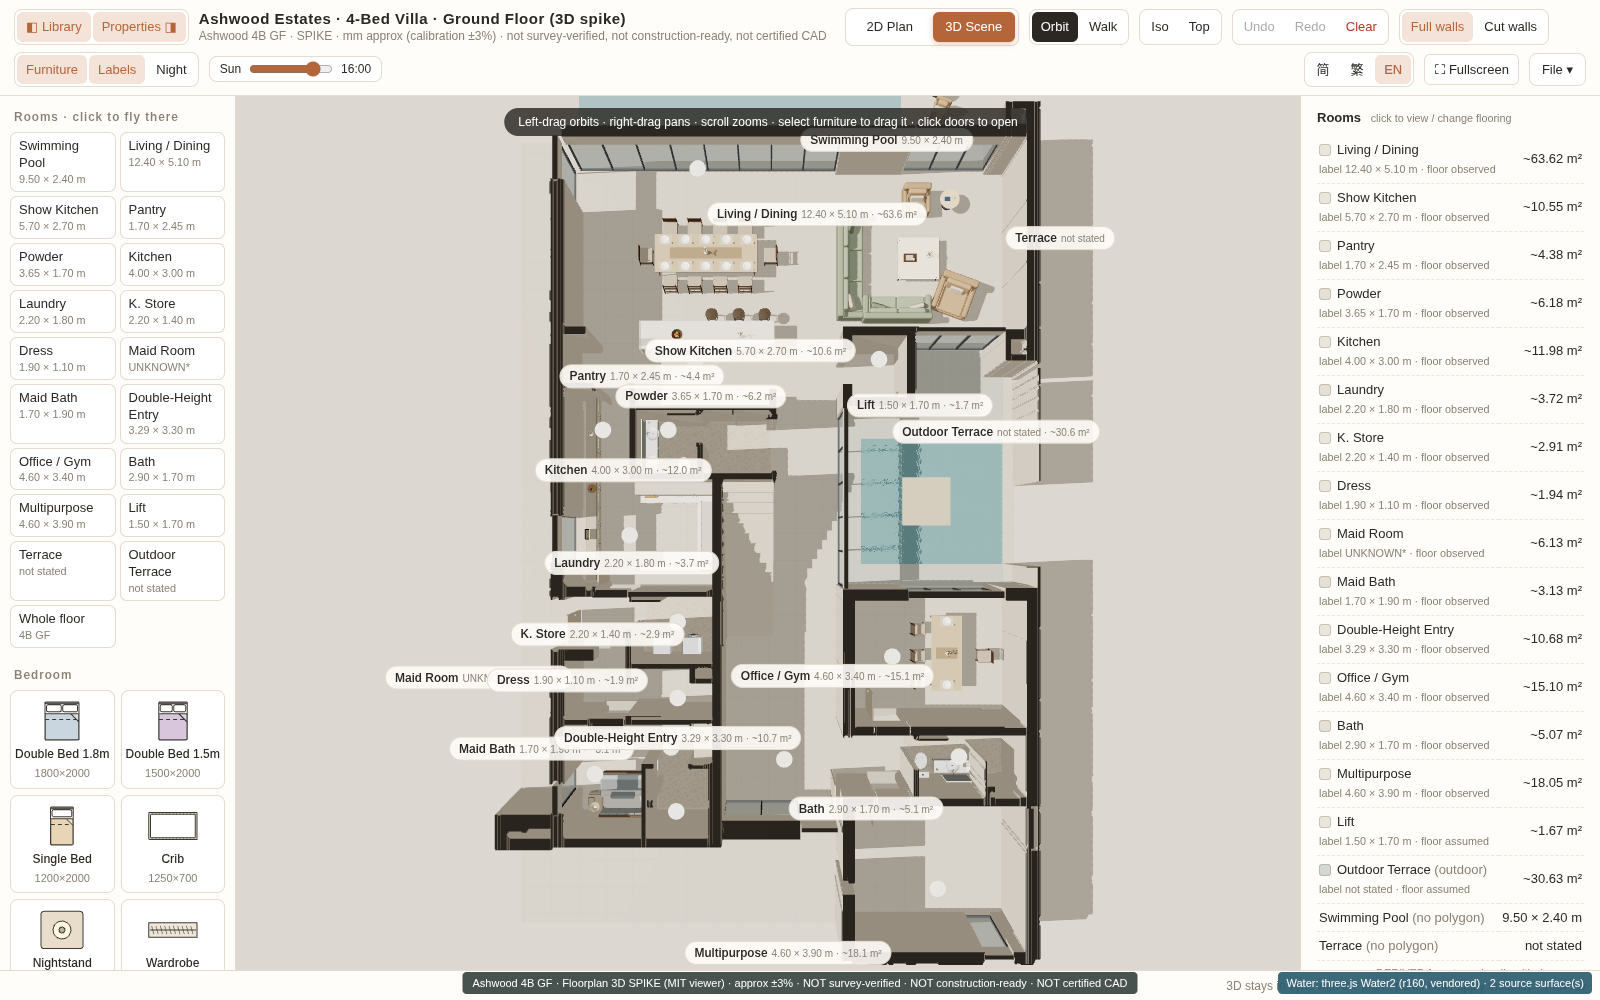
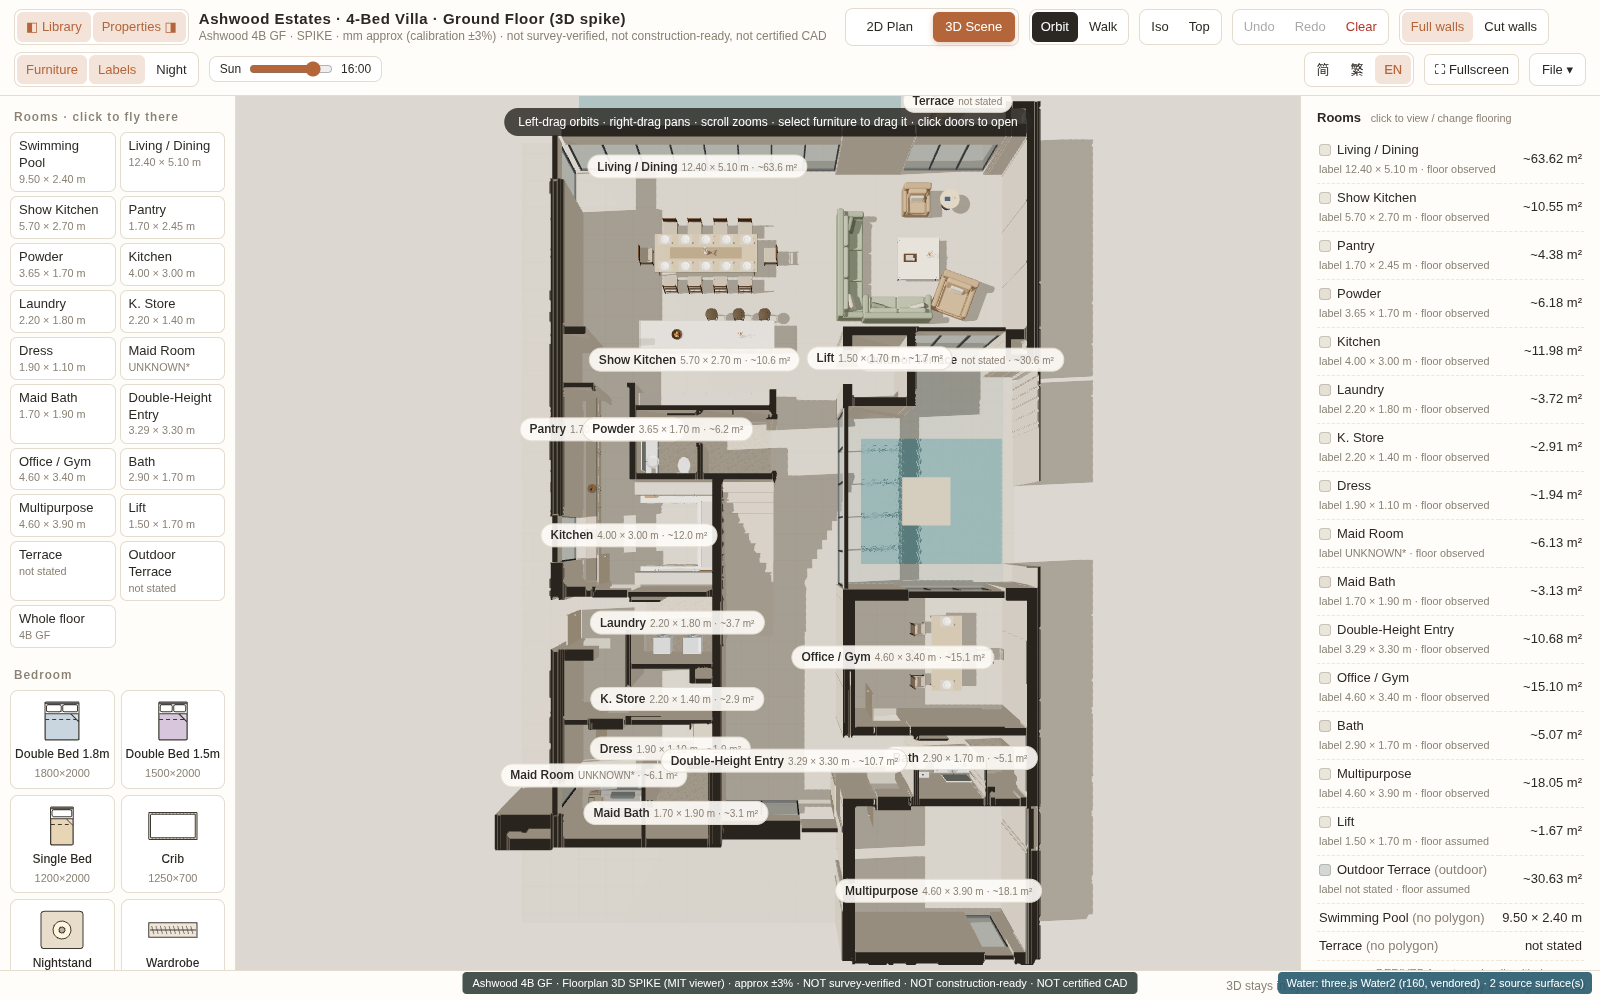
Sync in-progress Ashwood work (FP-4B-GF Floorplan3D rebuild)

diff --git a/active/floorplan3d-spike/FP-4B-GF/index.html b/active/floorplan3d-spike/FP-4B-GF/index.html
@@ -2629,6 +2629,7 @@ function bindUI(){
 
 /* ======================= 主循环 ======================= */
 const clock = new THREE.Clock();
+function lampFace(){ const below = camera.position.y < H - .05; lampG.children.forEach(o => { if (!o.isPointLight) o.visible = below && opt.cut >= H; }); }
 function startLoop(){ if (!raf){ clock.getDelta(); raf = requestAnimationFrame(loop); } }
 function loop(){
   raf = requestAnimationFrame(loop);
@@ -2638,7 +2639,7 @@ function loop(){
   else if (opt.mode === 'orbit') orbit.update();
   else stepWalk(dt);
   doors.forEach(d => { const tg = d.open ? d.a1 : d.a0; d.cur += (tg - d.cur) * Math.min(1, dt*6); d.pivot.rotation.y = d.cur; });
-  updateSel();
+  updateSel(); lampFace();
   renderer.render(scene, camera);
   labelRenderer.render(scene, camera);
 }
@@ -2667,7 +2668,7 @@ window.__FP3D_QA__ = {
   settle(){   // stop the render loop and finish any enter/fly animation (headless capture only)
     cancelAnimationFrame(raf); raf = 0; if (anim){ anim.fn(1); const r = anim.res; anim = null; r(); } if (fly){ camTween(fly.A, fly.B, 1); fly = null; }
     grow = 1; furnGrow = 1; applyGrow(); doors.forEach(d => { d.cur = d.open ? d.a1 : d.a0; d.pivot.rotation.y = d.cur; }); return true; },
-  still(){ this.settle(); orbit.update(); renderer.render(scene, camera); return {png:renderer.domElement.toDataURL('image/png'), w:renderer.domElement.width, h:renderer.domElement.height}; },
+  still(){ this.settle(); orbit.update(); lampFace(); renderer.render(scene, camera); return {png:renderer.domElement.toDataURL('image/png'), w:renderer.domElement.width, h:renderer.domElement.height}; },
   furn(v){ furnG.visible = v; return v; },
   labels(v){ labelG.visible = v; labelG.children.forEach(o => { o.visible = v; o.element.style.display = v ? '' : 'none'; }); return v; },
 };

diff --git a/scripts/write_floorplan3d_spike_readme.py b/scripts/write_floorplan3d_spike_readme.py
@@ -5,7 +5,6 @@ from pathlib import Path
 R = Path(__file__).resolve().parents[1]; S = R / 'active/floorplan3d-spike/FP-4B-GF'
 pj = json.loads((S / 'data/fp-4b-gf.plan.json').read_text())
 vj = json.loads((S / 'verify/verification.json').read_text()) if (S / 'verify/verification.json').exists() else {}
-gaps = (S.parent / 'FP-4B-GF.v2_gaps.md')
 L = []; A = L.append
 A('# Ashwood Estates: 4-bed villa, ground floor. Floorplan 3D viewer spike (FP-4B-GF), **v2**\n')
 A('**Status: REVIEW-PENDING SPIKE. One floor only.** Not survey-verified, not construction-ready, not certified CAD.\n')
@@ -51,7 +50,17 @@ if vj:
       f"- Furniture built at runtime: {vj.get('furniture_runtime')}. Rooms at runtime: {len(vj.get('rooms_runtime', []))} (incl. display plate).\n"
       f"- 3D top render vs V4 walls (furniture hidden): recall within ±{g.get('tolerance_mm')} mm {g.get('recall_within_tol')}, precision {g.get('precision_within_tol')}, components ≥0.95 recall {g.get('components_recall_ge_0.95')}/{g.get('v4_wall_components')}. Water IoU {w.get('IoU')}.\n"
       f"- Water mode {vj.get('info_final_desktop', {}).get('water', {}).get('mode')}; flat fallback {vj.get('flat_fallback_info', {}).get('mode')}; fly-to moved {vj.get('flyto', {}).get('moved')}; joystick walk moved {round(vj.get('walk', {}).get('moved_m') or 0, 2)} m.\n")
-if gaps.exists(): A(gaps.read_text())
+A("""## Remaining quality gaps (honest)
+- **Generic furniture models.** These are the upstream procedural models (sofa, chair, bed and so on), not the brochure's actual pieces, and their colours are upstream defaults. Only position, rotation and approximate footprint come from the plan.
+- **Procedural finishes.** Floors use upstream procedural tile and terrazzo textures. Walls are the upstream flat off-white and are not the brochure's textured paint, Calacatta feature wall or Recon Veneer joinery. All finish evidence is project-wide, not per room.
+- **Real-time WebGL quality, not offline renders.** There is no global illumination, real-time-only soft shadows and a basic ceiling. Headless renders use SwiftShader (CPU), so edges are not anti-aliased the way a GPU browser would draw them. On a normal GPU browser the viewer looks somewhat cleaner than these PNGs.
+- **Room polygons are derived.** Show kitchen ~10.6 m² is smaller than its label (5.70 × 2.70) because the open-plan labels overlap. Lift ~1.7 m² is smaller than 1.50 × 1.70. Dress, maid bath, entry and lift have wall/opening fit below 0.9 (see table).
+- **Maid-room bed** is modelled at the traced 1.28 × 1.10 m, which is short for a bed, because that is how the plan draws it.
+- **Stair** is display-only massing. Riser height and rise direction are assumed, and walking does not climb it.
+- **Double-height entry** has no void: corridors, stair hall and entry show open sky above the 3.0 m walls instead of a second floor. Pool has no depth or coping. The outdoor ground beyond the plate is plain.
+- **Unknown site orientation**, so the sun direction and time are display-only.
+- **Not modelled:** cars, rug or console outline, small store, bath and maid-bath fixtures, landscape (see the skipped list).
+""")
 A('## Files\n- `index.html`: patched upstream viewer (attribution header kept). `data/fp-4b-gf.plan.js` / `.plan.json`: generated data with per-room, per-item and per-opening provenance.\n'
   '- `adapter/v4_to_floorplan3d.py`: copy of `scripts/v4_to_floorplan3d.py`, locked to `--plan 4B-GF`. Readings input: `source-evidence/floorplan3d-readings/FP-4B-GF.json`.\n'
   '- `manifest.json`: sources and hashes, display-only defaults, room, furniture and material evidence, output hashes. `verify/`: verification output and renders. `v1/`: superseded first spike.\n'

diff --git a/scripts/verify_floorplan3d_spike.py b/scripts/verify_floorplan3d_spike.py
@@ -68,20 +68,20 @@ HERO = [
  ('v2_01_hero_living_dining_pool', MM(372, 328, 1.6), MM(320, 190, 1.0), 60, 3, 'Living / dining toward the pool (eye level 1.6 m)'),
  ('v2_02_hero_living_sofa_pool', MM(538, 322, 1.5), MM(380, 150, 0.9), 62, 3, 'Living: sectional sofa, coffee table, dining beyond, pool through glazing'),
  ('v2_03_hero_show_kitchen_island', MM(392, 300, 1.6), MM(255, 372, 0.9), 62, 3, 'Show kitchen: island + 3 stools, back counter'),
- ('v2_04_hero_kitchen', MM(234, 392, 1.6), MM(292, 505, 0.8), 68, 3, 'Kitchen: U counters, tall storage run (from pantry)'),
+ ('v2_04_hero_kitchen', MM(222, 452, 1.6), MM(300, 524, 0.8), 75, 3, 'Kitchen: U counters (north/east/south runs) and tall storage run'),
  ('v2_05_hero_entry_stair', MM(402, 706, 1.6), MM(338, 585, 1.4), 66, 3, 'Double-height entry toward the stair (display-only stair massing)'),
  ('v2_06_hero_maid_room', MM(262, 642, 1.6), MM(214, 706, 0.5), 72, 3, 'Maid room: bed + nightstand as drawn (bed length as traced)'),
  ('v2_07_hero_pool_terrace', MM(600, 70, 1.7), MM(330, 150, 0.2), 58, 3, 'Pool terrace: Water2 pool, terrace chairs, living glazing'),
- ('v2_08_birdseye_full_walls', MM(700, 960, 27), MM(372, 440, 0), 40, 3, "Bird's-eye oblique, full-height walls (3.0 m display-only)"),
- ('v2_09_birdseye_cut_walls', MM(700, 960, 27), MM(372, 440, 0), 40, 1.2, "Bird's-eye oblique, cut walls (1.2 m)"),
+ ('v2_08_birdseye_full_walls', MM(640, 900, 22), MM(372, 440, 0), 38, 3, "Bird's-eye oblique, full-height walls (3.0 m display-only)"),
+ ('v2_09_birdseye_cut_walls', MM(640, 900, 22), MM(372, 440, 0), 38, 1.2, "Bird's-eye oblique, cut walls (1.2 m)"),
 ]
 # upstream demo apartment (plan mm of the upstream data), same lens/heights
 DEMO_SHOTS = [
  ('demo_01_living', [9900, 10250, 1.6], [6000, 7300, 0.9], 60, 2.8, 'UPSTREAM DEMO (untouched data) - living, eye level'),
- ('demo_02_bedroom', [9950, 3150, 1.6], [7400, 700, 0.5], 72, 2.8, 'UPSTREAM DEMO - master bedroom'),
- ('demo_03_kitchen', [2050, 7800, 1.6], [500, 5600, 0.8], 68, 2.8, 'UPSTREAM DEMO - kitchen'),
- ('demo_08_birdseye_full_walls', [5900 + 7600, 5300 + 12500, 21], [5900, 5300, 0], 40, 2.8, 'UPSTREAM DEMO - bird\'s-eye, full walls'),
- ('demo_09_birdseye_cut_walls', [5900 + 7600, 5300 + 12500, 21], [5900, 5300, 0], 40, 1.2, 'UPSTREAM DEMO - bird\'s-eye, cut walls'),
+ ('demo_02_bedroom', [6900, 2600, 1.6], [8300, 1000, 0.5], 70, 2.8, 'UPSTREAM DEMO - master bedroom'),
+ ('demo_03_kitchen', [1900, 5450, 1.6], [500, 7300, 0.8], 70, 2.8, 'UPSTREAM DEMO - kitchen'),
+ ('demo_08_birdseye_full_walls', [5900 + 6000, 5300 + 10000, 17], [5900, 5300, 0], 38, 2.8, 'UPSTREAM DEMO - bird\'s-eye, full walls'),
+ ('demo_09_birdseye_cut_walls', [5900 + 6000, 5300 + 10000, 17], [5900, 5300, 0], 38, 1.2, 'UPSTREAM DEMO - bird\'s-eye, cut walls'),
 ]
 try: FNT = ImageFont.truetype('/usr/share/fonts/truetype/dejavu/DejaVuSans.ttf', 20); FNTs = ImageFont.truetype('/usr/share/fonts/truetype/dejavu/DejaVuSans.ttf', 16)
 except Exception: FNT = FNTs = None

diff --git a/active/floorplan3d-spike/FP-4B-GF/adapter/v4_to_floorplan3d.py b/active/floorplan3d-spike/FP-4B-GF/adapter/v4_to_floorplan3d.py
@@ -572,11 +572,14 @@ function buildArch(){''')
   settle(){   // stop the render loop and finish any enter/fly animation (headless capture only)
     cancelAnimationFrame(raf); raf = 0; if (anim){ anim.fn(1); const r = anim.res; anim = null; r(); } if (fly){ camTween(fly.A, fly.B, 1); fly = null; }
     grow = 1; furnGrow = 1; applyGrow(); doors.forEach(d => { d.cur = d.open ? d.a1 : d.a0; d.pivot.rotation.y = d.cur; }); return true; },
-  still(){ this.settle(); orbit.update(); renderer.render(scene, camera); return {png:renderer.domElement.toDataURL('image/png'), w:renderer.domElement.width, h:renderer.domElement.height}; },
+  still(){ this.settle(); orbit.update(); lampFace(); renderer.render(scene, camera); return {png:renderer.domElement.toDataURL('image/png'), w:renderer.domElement.width, h:renderer.domElement.height}; },
   furn(v){ furnG.visible = v; return v; },
   labels(v){ labelG.visible = v; labelG.children.forEach(o => { o.visible = v; o.element.style.display = v ? '' : 'none'; }); return v; },
 };
 window.View3D = {enter, exit,''')
+    # ceiling lamp discs are one-sided like the ceilings: hide them when the camera is above the ceiling (bird's-eye), keep them from inside
+    s = rep(s, '  updateSel();\n  renderer.render(scene, camera);', '  updateSel(); lampFace();\n  renderer.render(scene, camera);')
+    s = rep(s, 'function startLoop(){', 'function lampFace(){ const below = camera.position.y < H - .05; lampG.children.forEach(o => { if (!o.isPointLight) o.visible = below && opt.cut >= H; }); }\nfunction startLoop(){')
     s = rep(s, '</body>', '<div id="spikeBanner" style="position:fixed;left:50%;transform:translateX(-50%);bottom:6px;z-index:99;background:rgba(52,64,62,.9);color:#fff;font:11px/1.3 sans-serif;padding:4px 10px;border-radius:4px;pointer-events:none">Ashwood 4B GF · Floorplan 3D SPIKE (MIT viewer) · approx ±3% · NOT survey-verified · NOT construction-ready · NOT certified CAD</div>\n</body>')
     s = rep(s, "anchors:ANCHORS.length, labels:", "anchors:ANCHORS.length, water:waterState, labels:")
     s = rep(s, '<div id="spikeBanner"', '<div id="waterBadge" style="position:fixed;right:8px;bottom:6px;z-index:99;background:rgba(40,90,110,.9);color:#fff;font:11px/1.3 sans-serif;padding:4px 8px;border-radius:4px;pointer-events:none">Water: (3D view only)</div>\n<div id="spikeBanner"')

diff --git a/scripts/v4_to_floorplan3d.py b/scripts/v4_to_floorplan3d.py
@@ -572,11 +572,14 @@ function buildArch(){''')
   settle(){   // stop the render loop and finish any enter/fly animation (headless capture only)
     cancelAnimationFrame(raf); raf = 0; if (anim){ anim.fn(1); const r = anim.res; anim = null; r(); } if (fly){ camTween(fly.A, fly.B, 1); fly = null; }
     grow = 1; furnGrow = 1; applyGrow(); doors.forEach(d => { d.cur = d.open ? d.a1 : d.a0; d.pivot.rotation.y = d.cur; }); return true; },
-  still(){ this.settle(); orbit.update(); renderer.render(scene, camera); return {png:renderer.domElement.toDataURL('image/png'), w:renderer.domElement.width, h:renderer.domElement.height}; },
+  still(){ this.settle(); orbit.update(); lampFace(); renderer.render(scene, camera); return {png:renderer.domElement.toDataURL('image/png'), w:renderer.domElement.width, h:renderer.domElement.height}; },
   furn(v){ furnG.visible = v; return v; },
   labels(v){ labelG.visible = v; labelG.children.forEach(o => { o.visible = v; o.element.style.display = v ? '' : 'none'; }); return v; },
 };
 window.View3D = {enter, exit,''')
+    # ceiling lamp discs are one-sided like the ceilings: hide them when the camera is above the ceiling (bird's-eye), keep them from inside
+    s = rep(s, '  updateSel();\n  renderer.render(scene, camera);', '  updateSel(); lampFace();\n  renderer.render(scene, camera);')
+    s = rep(s, 'function startLoop(){', 'function lampFace(){ const below = camera.position.y < H - .05; lampG.children.forEach(o => { if (!o.isPointLight) o.visible = below && opt.cut >= H; }); }\nfunction startLoop(){')
     s = rep(s, '</body>', '<div id="spikeBanner" style="position:fixed;left:50%;transform:translateX(-50%);bottom:6px;z-index:99;background:rgba(52,64,62,.9);color:#fff;font:11px/1.3 sans-serif;padding:4px 10px;border-radius:4px;pointer-events:none">Ashwood 4B GF · Floorplan 3D SPIKE (MIT viewer) · approx ±3% · NOT survey-verified · NOT construction-ready · NOT certified CAD</div>\n</body>')
     s = rep(s, "anchors:ANCHORS.length, labels:", "anchors:ANCHORS.length, water:waterState, labels:")
     s = rep(s, '<div id="spikeBanner"', '<div id="waterBadge" style="position:fixed;right:8px;bottom:6px;z-index:99;background:rgba(40,90,110,.9);color:#fff;font:11px/1.3 sans-serif;padding:4px 8px;border-radius:4px;pointer-events:none">Water: (3D view only)</div>\n<div id="spikeBanner"')
